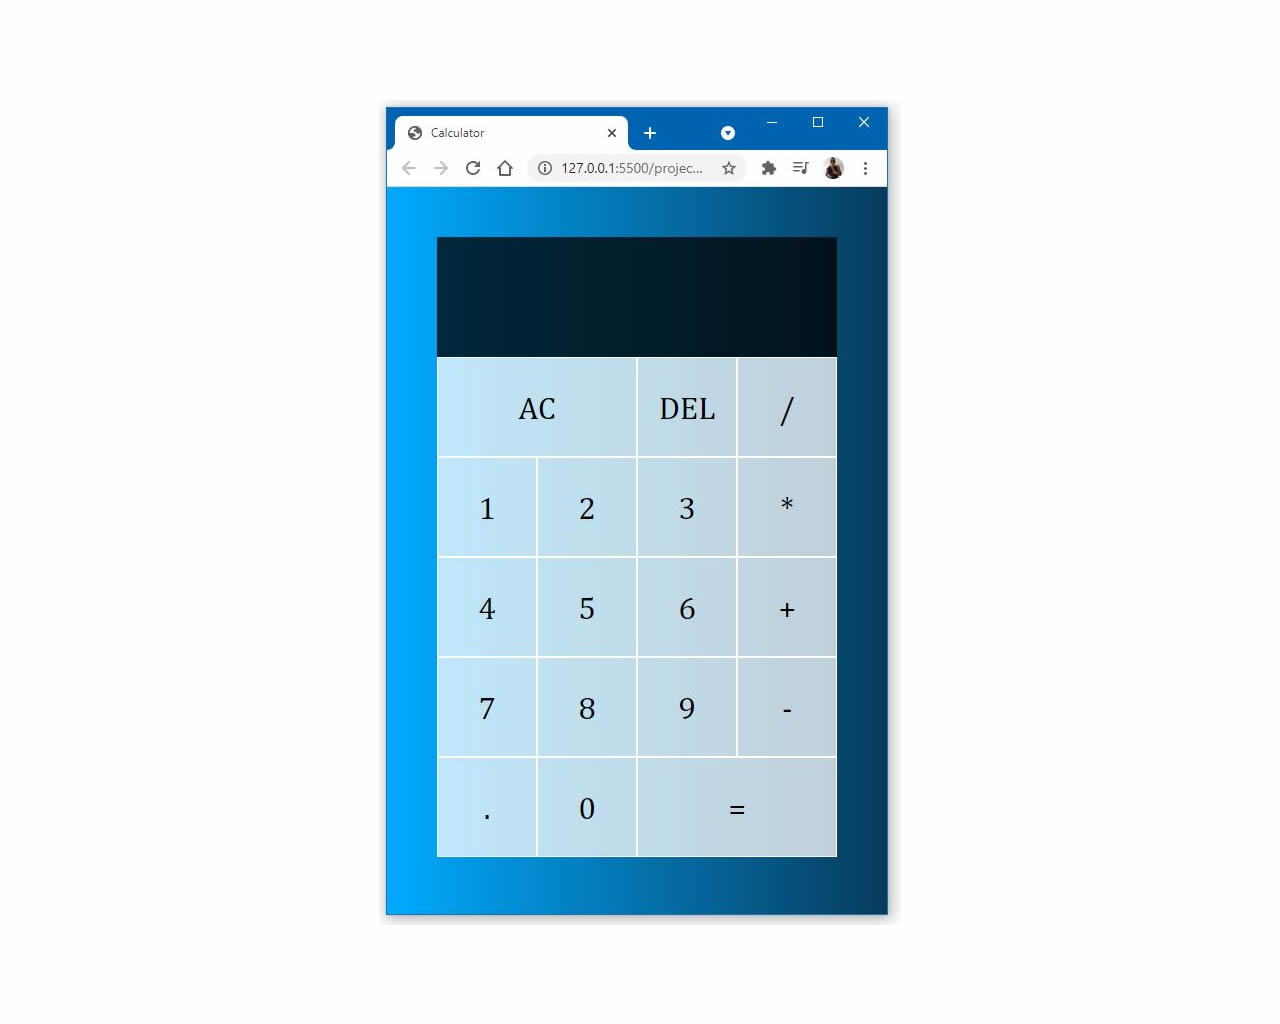
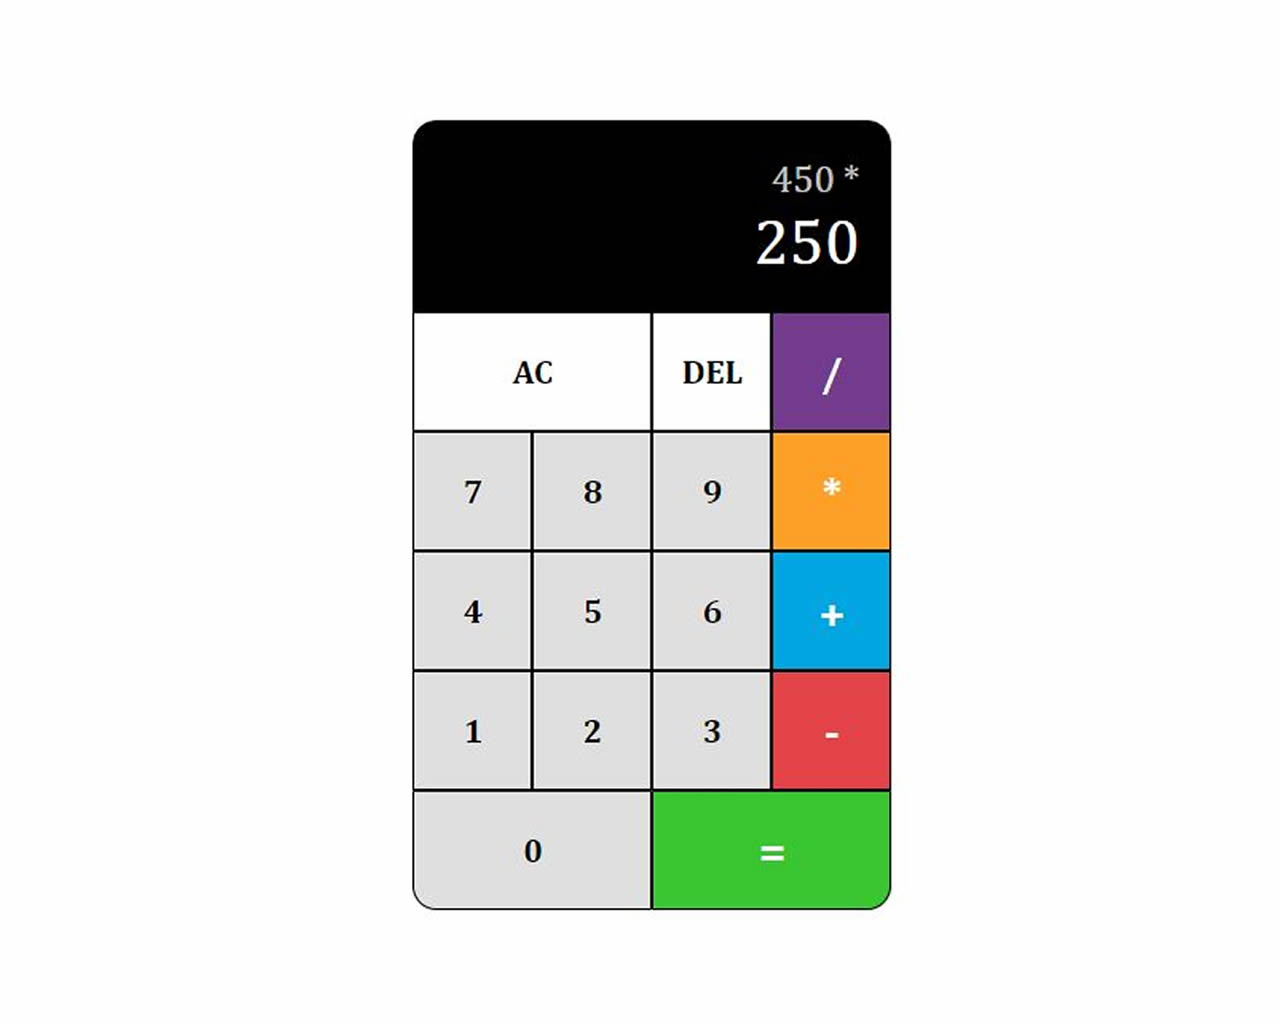
calculator

diff --git a/projects/project5/styles.css b/projects/project5/styles.css
@@ -26,7 +26,7 @@ body {
 
 .calculator-grid > button {
   cursor: pointer;
-  font-size: 1.5rem;
+  font-size: 1.3rem;
   font-weight: bold;
   border: 1px solid #000;
   outline: none;
@@ -41,27 +41,36 @@ body {
 #btn-divide {
   color: #fff;
   background-color: #733a8e;
+  font-size: 1.6rem;
 }
 
 #btn-multiple {
   color: #fff;
   background-color: #fea027;
+  font-size: 1.7rem;
 }
 
 #btn-plus {
   color: #fff;
   background-color: #00a5e1;
+  font-size: 1.7rem;
 }
 
 #btn-minus {
   color: #fff;
   background-color: #e34347;
+  font-size: 1.8rem;
 }
 
 #btn-equal {
   color: #fff;
   background-color: #3ac631;
   border-bottom-right-radius: 15px;
+  font-size: 1.8rem;
+}
+
+#btn-zero {
+  border-bottom-left-radius: 15px;
 }
 
 .calculator-grid > button:hover {

diff --git a/projects/project5/index.html b/projects/project5/index.html
@@ -28,7 +28,7 @@
             <button data-number>2</button>
             <button data-number>3</button>        
             <button data-operation id="btn-minus">-</button>
-            <button data-number class="span-two">0</button>
+            <button data-number class="span-two" id="btn-zero">0</button>
       
             <button data-equals class="span-two" id="btn-equal">=</button>
     </div>
